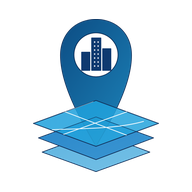
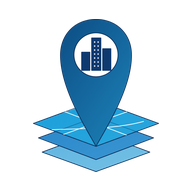
v1.10.1 : épingle devant les calques, animation de lancement plus courte

Changed region(s): [[0.1875, 0.5, 0.8125, 0.75]]

diff --git a/index.html b/index.html
@@ -25,12 +25,16 @@
 </head>
 <body class="on-welcome">
 <div id="splash" aria-hidden="true">
-  <div class="sp-card">
-    <i class="sp-ring r1"></i><i class="sp-ring r2"></i>
-    <img src="assets/logo-geotrace.png" alt="" width="230" height="309">
-  </div>
+  <div class="sp-card"><svg class="sp-svg" aria-hidden="true" xmlns="http://www.w3.org/2000/svg" viewBox="40 100 580 730" width="100%"><defs>
+<linearGradient id="pin" x1="0.1" y1="0" x2="0.9" y2="1"><stop offset="0" stop-color="#0d4f86"/><stop offset="1" stop-color="#1c82b8"/></linearGradient>
+<linearGradient id="lt" x1="0" y1="0" x2="1" y2="1"><stop offset="0" stop-color="#1b9fdc"/><stop offset="1" stop-color="#2aa6dc"/></linearGradient>
+<linearGradient id="lm" x1="0" y1="0" x2="1" y2="1"><stop offset="0" stop-color="#2a86c9"/><stop offset="1" stop-color="#3a96d2"/></linearGradient>
+<linearGradient id="lb" x1="0" y1="0" x2="1" y2="1"><stop offset="0" stop-color="#5fb4e0"/><stop offset="1" stop-color="#74c0e6"/></linearGradient>
+<linearGradient id="wm" gradientUnits="userSpaceOnUse" x1="90" y1="0" x2="660" y2="0"><stop offset="0" stop-color="#0c3f73"/><stop offset=".5" stop-color="#1783c6"/><stop offset="1" stop-color="#52bdec"/></linearGradient>
+<clipPath id="top"><path d="M80,525 L330,433 L580,525 L330,617 Z"/></clipPath>
+</defs><g class="sp-b"><path d="M115,640 L330,560 L545,640 L330,718 Z" fill="url(#lb)" stroke="#12335d" stroke-width="3" stroke-linejoin="round"/></g><g class="sp-m"><path d="M100,583 L330,499 L560,583 L330,670 Z" fill="url(#lm)" stroke="#12335d" stroke-width="3" stroke-linejoin="round"/></g><g class="sp-t"><path d="M80,525 L330,433 L580,525 L330,617 Z" fill="url(#lt)" stroke="#12335d" stroke-width="3" stroke-linejoin="round"/><path d="M100,583 L330,499 L560,583" fill="none" stroke="#12335d" stroke-width="2.5" stroke-linejoin="round" opacity=".45"/><g clip-path="url(#top)" fill="none" stroke="#fff" stroke-width="3.2" stroke-linecap="round" opacity=".9"><path d="M200,480 L318,437"/><path d="M205,478 L468,578"/><path d="M192,572 L455,478"/><path d="M155,550 C300,545 420,545 520,517"/></g></g><ellipse class="sp-r" cx="330" cy="617" rx="60" ry="22" fill="none" stroke="#12b5f0" stroke-width="4"/><g class="sp-p"><path d="M330,617 C300,560 188,390 188,252 C188,165 250,108 330,108 C410,108 472,165 472,252 C472,390 360,560 330,617 Z" fill="url(#pin)" stroke="#12335d" stroke-width="3" stroke-linejoin="round"/><circle cx="330" cy="250" r="88" fill="#fff" stroke="#12335d" stroke-width="3"/><g fill="#0f3a70"><rect x="271" y="238" width="36" height="76" rx="2"/><rect x="311" y="181" width="40" height="133" rx="2"/><rect x="355" y="224" width="36" height="90" rx="2"/></g><g fill="#fff" opacity=".9"><rect x="322" y="196" width="5" height="6" rx="1"/><rect x="322" y="212" width="5" height="6" rx="1"/><rect x="322" y="228" width="5" height="6" rx="1"/><rect x="322" y="244" width="5" height="6" rx="1"/><rect x="322" y="260" width="5" height="6" rx="1"/><rect x="322" y="276" width="5" height="6" rx="1"/><rect x="322" y="292" width="5" height="6" rx="1"/><rect x="336" y="196" width="5" height="6" rx="1"/><rect x="336" y="212" width="5" height="6" rx="1"/><rect x="336" y="228" width="5" height="6" rx="1"/><rect x="336" y="244" width="5" height="6" rx="1"/><rect x="336" y="260" width="5" height="6" rx="1"/><rect x="336" y="276" width="5" height="6" rx="1"/><rect x="336" y="292" width="5" height="6" rx="1"/></g></g><path class="sp-w" d="M109.609375 806.3125C132.1953125 806.3125 147.234375 792.4765625 147.234375 771.2578125V759.5H110.265625V775.7421875H125.03125C124.8125 782.3046875 119.671875 786.625 110.4296875 786.625C98.671875 786.625 92.546875 778.8046875 92.546875 764.3125C92.546875 749.8203125 98.5625 741.890625 110.1015625 741.890625C117.921875 741.890625 122.296875 745.5546875 123.4453125 751.625H146.6328125C145.15625 733.90625 129.0234375 722.203125 109.171875 722.203125C86.9140625 722.203125 69.578125 737.078125 69.578125 764.3125C69.578125 790.0703125 85.328125 806.3125 109.609375 806.3125Z M182.4921875 806.3125C197.6953125 806.3125 209.9453125 797.9453125 212.078125 786.1328125H192.71875C191.515625 789.25 188.015625 791.109375 183.3671875 791.109375C177.0234375 791.109375 173.1953125 787.5 173.03125 781.375H212.296875V775.5234375C212.296875 758.1875 199.7734375 745.9375 182.0546875 745.9375C164.3359375 745.9375 151.8125 758.4609375 151.8125 776.125C151.8125 793.7890625 164.5 806.3125 182.4921875 806.3125ZM173.1953125 769.125C173.9609375 764.3671875 177.3515625 761.578125 182.65625 761.578125C187.9609375 761.578125 191.3515625 764.3671875 192.1171875 769.125Z M247.609375 806.3125C266.421875 806.3125 279.109375 794.609375 279.109375 776.125C279.109375 757.6953125 266.421875 745.9375 247.609375 745.9375C228.8515625 745.9375 216.109375 757.6953125 216.109375 776.125C216.109375 794.6640625 228.8515625 806.3125 247.609375 806.3125ZM247.609375 789.25C242.4140625 789.25 238.203125 784.8203125 238.203125 776.125C238.203125 767.4296875 242.4140625 763.0 247.609375 763.0C252.8046875 763.0 257.015625 767.4296875 257.015625 776.125C257.015625 784.8203125 252.8046875 789.25 247.609375 789.25Z M282.8125 742.765625H306.0V805.0H328.75V742.765625H351.9375V723.515625H282.8125Z M357.828125 805.0H379.703125V777.328125C379.703125 769.6171875 384.0234375 764.75 390.859375 764.75H398.84375V747.25H393.375C385.4453125 747.25 381.234375 749.984375 379.15625 757.75H379.046875V747.25H357.828125Z M421.140625 806.0390625C428.5234375 806.0390625 433.9375 803.796875 437.765625 796.90625H437.984375V805.0H459.3125V766.390625C459.3125 753.265625 449.796875 745.9375 431.96875 745.9375C414.25 745.9375 404.7890625 753.265625 403.859375 766.390625H423.875C424.2578125 763.0 426.7734375 761.140625 431.09375 761.140625C435.0859375 761.140625 437.65625 762.78125 437.65625 765.296875V765.515625C437.65625 768.6875 433.828125 769.890625 423.65625 770.546875C411.1875 771.3671875 401.453125 776.125 401.453125 789.03125C401.453125 800.515625 409.546875 806.0390625 421.140625 806.0390625ZM428.25 792.421875C424.53125 792.421875 421.90625 790.671875 421.90625 787.71875C421.90625 784.765625 424.640625 782.796875 429.125 782.03125C433.171875 781.3203125 435.6875 780.71875 437.875 779.953125V784.546875C437.875 789.6875 432.953125 792.421875 428.25 792.421875Z M496.375 806.3125C513.765625 806.3125 525.90625 795.8125 525.90625 780.828125H505.015625C504.6328125 786.078125 501.4609375 789.359375 496.8125 789.359375C491.0703125 789.359375 487.625 784.3828125 487.625 776.125C487.625 767.8125 491.015625 762.890625 496.8125 762.890625C501.4609375 762.890625 504.6328125 766.0625 505.015625 771.203125H525.90625C525.359375 756.21875 513.328125 745.9375 496.375 745.9375C477.890625 745.9375 465.53125 758.078125 465.53125 776.125C465.53125 794.2265625 477.8359375 806.3125 496.375 806.3125Z M560.5078125 806.3125C575.7109375 806.3125 587.9609375 797.9453125 590.09375 786.1328125H570.734375C569.53125 789.25 566.03125 791.109375 561.3828125 791.109375C555.0390625 791.109375 551.2109375 787.5 551.046875 781.375H590.3125V775.5234375C590.3125 758.1875 577.7890625 745.9375 560.0703125 745.9375C542.3515625 745.9375 529.828125 758.4609375 529.828125 776.125C529.828125 793.7890625 542.515625 806.3125 560.5078125 806.3125ZM551.2109375 769.125C551.9765625 764.3671875 555.3671875 761.578125 560.671875 761.578125C565.9765625 761.578125 569.3671875 764.3671875 570.1328125 769.125Z" fill="url(#wm)"/></svg></div>
 </div>
-<script>addEventListener('load', function () { var s = document.getElementById('splash'); if (s) setTimeout(function () { s.classList.add('go'); }, 650); });</script>
+<script>addEventListener('load', function () { var s = document.getElementById('splash'); if (s) s.classList.add('go'); });</script>
 <noscript><p style="padding:24px">GeoTrace a besoin de JavaScript pour fonctionner.</p></noscript>
 
 <header id="top">

diff --git a/assets/app.css b/assets/app.css
@@ -475,18 +475,25 @@ body.on-welcome .pop-wrap { display: none; }
 [data-theme="dark"] .w-logo { background: #f6f9fc; border-radius: 18px; padding: 10px 14px; margin-left: -4px; }
 [data-theme="dark"] .brand img { background: #f6f9fc; border-radius: 8px; padding: 2px 4px; height: 36px; }
 
-/* Écran de lancement */
+/* Écran de lancement : les calques s'empilent, l'épingle tombe dessus, le nom apparaît */
 #splash { position: fixed; inset: 0; z-index: 9000; display: grid; place-items: center; background: #f3f7fc; }
-#splash.go { animation: sp-out .45s ease 1.1s forwards; }
 [data-theme="dark"] #splash { background: #08131f; }
-.sp-card { position: relative; width: min(230px, 52vw); }
-[data-theme="dark"] .sp-card { background: #f6f9fc; border-radius: 22px; padding: 12px 16px; box-sizing: content-box; }
-.sp-card img { display: block; width: 100%; height: auto; animation: sp-in .8s cubic-bezier(.2,.8,.2,1) both; }
-.sp-ring { position: absolute; left: 50%; top: 77%; width: 0; height: 0; border: 2px solid #0585c6; border-radius: 50%; opacity: 0; transform: translate(-50%, -50%) scaleY(.42); }
-#splash.go .sp-ring { animation: sp-ring 1.3s ease-out forwards; }
-#splash.go .sp-ring.r2 { animation-delay: .25s; border-color: #12b5f0; }
-.sp-ring.r2 { border-color: #12b5f0; }
-@keyframes sp-in { from { opacity: 0; transform: translateY(-26px) scale(.94); filter: blur(6px); } 60% { opacity: 1; } to { opacity: 1; transform: none; filter: none; } }
-@keyframes sp-ring { 0% { opacity: .85; width: 0; height: 0; } 100% { opacity: 0; width: 360px; height: 360px; } }
+.sp-card { width: min(210px, 50vw); }
+[data-theme="dark"] .sp-card { background: #f6f9fc; border-radius: 22px; padding: 14px 18px; box-sizing: content-box; }
+.sp-svg { display: block; width: 100%; height: auto; overflow: visible; }
+.sp-svg > g, .sp-svg .sp-w, .sp-svg .sp-r { transform-box: fill-box; transform-origin: center; opacity: 0; }
+.sp-svg .sp-p { transform-origin: 50% 100%; }
+#splash.go { animation: sp-out .3s ease 1.25s forwards; }
+#splash.go .sp-b, #splash.go .sp-m, #splash.go .sp-t { animation: sp-layer .38s cubic-bezier(.2,.8,.25,1) both; }
+#splash.go .sp-b { animation-delay: .0s; }
+#splash.go .sp-m { animation-delay: .1s; }
+#splash.go .sp-t { animation-delay: .2s; }
+#splash.go .sp-p { animation: sp-drop .5s cubic-bezier(.3,1.4,.5,1) .38s both; }
+#splash.go .sp-r { animation: sp-ripple .55s ease-out .78s both; }
+#splash.go .sp-w { animation: sp-word .35s ease-out .72s both; }
+@keyframes sp-layer { from { opacity: 0; transform: translateY(34px) scale(.92); } to { opacity: 1; transform: none; } }
+@keyframes sp-drop { 0% { opacity: 0; transform: translateY(-90px) scaleY(1.08); } 40% { opacity: 1; } 100% { opacity: 1; transform: none; } }
+@keyframes sp-ripple { 0% { opacity: .9; transform: scale(.3); } 100% { opacity: 0; transform: scale(3.2); } }
+@keyframes sp-word { from { opacity: 0; transform: translateY(10px); } to { opacity: 1; transform: none; } }
 @keyframes sp-out { to { opacity: 0; visibility: hidden; } }
 @media (prefers-reduced-motion: reduce) { #splash { display: none; } }

diff --git a/sw.js b/sw.js
@@ -1,6 +1,6 @@
 /* GeoTrace – cache de l'application pour un démarrage rapide et hors connexion.
    Les fonds de carte ne sont pas mis en cache : ils demandent une connexion. */
-const CACHE = 'geotrace-v1.10.0';
+const CACHE = 'geotrace-v1.10.1';
 const SHELL = [
   './', 'index.html', 'manifest.webmanifest',
   'assets/app.css', 'assets/app.js', 'assets/config.js', 'assets/geo.js', 'assets/maquette.js',

diff --git a/assets/app.js b/assets/app.js
@@ -3,7 +3,7 @@
 (() => {
 'use strict';
 
-const VERSION = '1.10.0';
+const VERSION = '1.10.1';
 const CFG = Object.assign({ nextcloud: '', maquette: '', maquetteLien: '', maxDepth: 3, concurrency: 4 }, window.GEOTRACE_CONFIG || {});
 
 /* ================= Utilitaires ================= */

diff --git a/README.md b/README.md
@@ -137,3 +137,7 @@ Ordre de priorité : réglage fait sur cet ordinateur, puis réglage du projet p
 - Mode sombre appliqué à l'accueil, aux fenêtres, aux fiches et aux menus.
 - Bouton « Tuto » dans l'espace de travail ; l'accueil n'affiche plus les boutons réservés au travail sur les photos.
 - Retrait de la barre de recherche d'adresse et des fonds « Plan clair » et « Plan sombre ».
+
+## Version 1.10.1
+- Logo : l’épingle passe devant les calques.
+- Animation de lancement plus courte (environ 1,5 s) : les calques s’empilent, l’épingle tombe dessus, une onde part de sa pointe, puis le nom apparaît.
